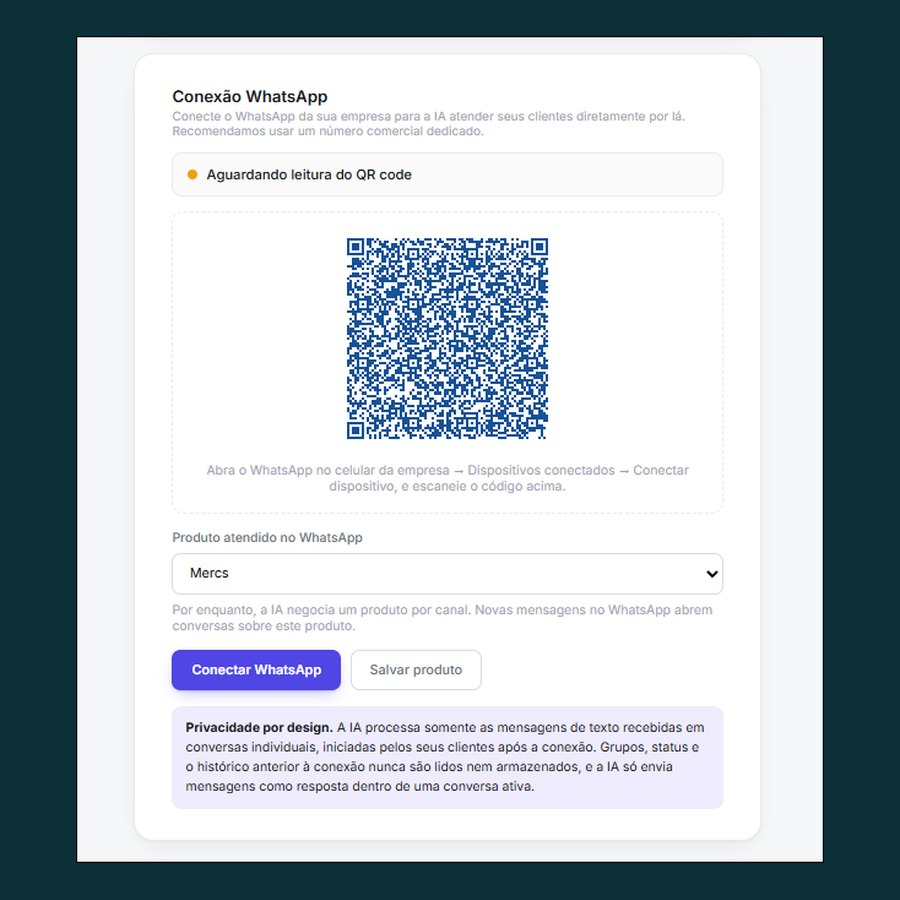
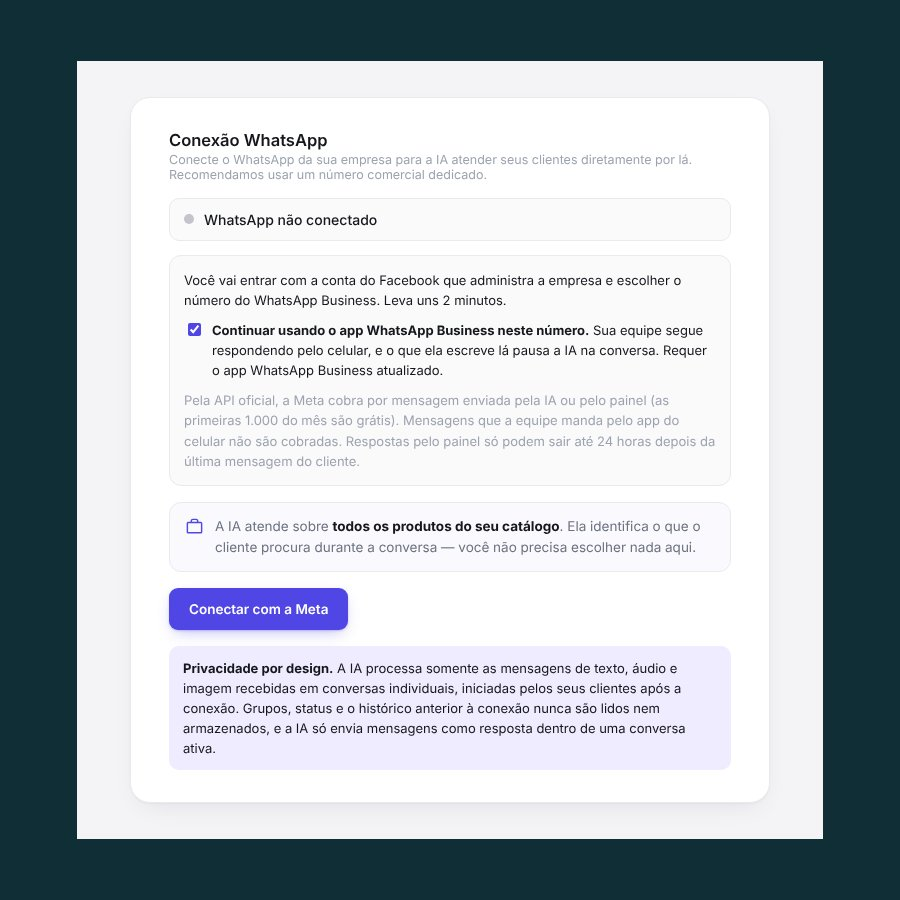
WhatsApp: API oficial como padrão; QR code só para quem já usava, com convite para migrar
- Painel novo: conexão pela API oficial da Meta; QR code aparece só para empresas legado
- Aviso e botão para migrar quem está conectado por QR code
- Painel antigo: empresas novas são levadas para o painel novo
- Termos e site sem oferta de QR code; nova imagem do passo de conexão

Claude-Session: https://claude.ai/code/session_01BChpN4bGcx6q83eQh1dqe1

Changed region(s): [[0.0622, 0.0311, 0.9333, 0.9022], [0.0622, 0.9333, 0.9333, 0.9644], [0.7778, 0.6222, 0.8089, 0.6533]]

diff --git a/acesso-novo/index.html b/acesso-novo/index.html
@@ -1200,6 +1200,11 @@
 .wa-meta-box.visible{display:block;}
 .wa-meta-box label{display:flex;gap:8px;align-items:flex-start;margin-top:10px;cursor:pointer;}
 .wa-meta-box input[type=checkbox]{margin-top:3px;accent-color:var(--accent);}
+#wa-disconnect-btn,#wa-meta-btn,#wa-connect-btn{align-items:center;}
+.wa-migrar{display:none;margin-top:14px;padding:14px;border:1px solid #F5D9A8;border-radius:12px;background:#FFF8EC;font-size:13px;line-height:1.55;color:var(--text-primary);}
+.wa-migrar.visible{display:block;}
+.wa-migrar b{display:block;margin-bottom:4px;font-size:13.5px;}
+.wa-migrar .btn-primary{margin-top:10px;}
 .wa-provedor-tag{display:inline-block;margin-left:8px;padding:2px 8px;border-radius:999px;background:var(--accent-soft);color:var(--accent-dark,#3730A3);font-size:11.5px;font-weight:600;vertical-align:middle;}
 .bk-opcao{display:flex;gap:8px;align-items:center;margin-top:14px;font-size:13px;color:var(--text-primary);cursor:pointer;}
 .bk-opcao input{accent-color:var(--accent);}
@@ -1787,7 +1792,7 @@
           </div>
           <div class="pp-texto">
             <h2>Agora é só conectar seu WhatsApp e começar a vender!</h2>
-            <p>Clique no botão abaixo, gere o QR code e escaneie com o celular que atende seus clientes. Leva menos de um minuto.</p>
+            <p>Clique no botão abaixo, entre com a conta do Facebook que administra a empresa e escolha o número do WhatsApp Business. Leva uns 2 minutos.</p>
           </div>
           <button class="btn-primary pp-btn" id="pp-conectar-wa">Conectar meu WhatsApp</button>
         </div>
@@ -2888,17 +2893,24 @@
             <span class="wa-status-num" id="wa-status-num"></span>
           </div>
 
-          <!-- v1.31 — dois jeitos de conectar: QR code (como sempre) ou API
-               oficial da Meta, com o app WhatsApp Business continuando a funcionar. -->
-          <div class="wa-modos" id="wa-modos" role="group" aria-label="Como conectar o WhatsApp">
-            <button type="button" class="wa-modo" id="wa-modo-qr" aria-pressed="true">
-              <b>QR code</b>
-              <span>Lê um QR code no celular, como no WhatsApp Web. Mais rápido de configurar.</span>
-            </button>
-            <button type="button" class="wa-modo" id="wa-modo-meta" aria-pressed="false">
-              <b>API oficial da Meta</b>
+          <!-- v1.32 — a conexão é pela API oficial da Meta, com o app WhatsApp
+               Business continuando a funcionar. O QR code (cliente não oficial)
+               só aparece para as empresas que já o usavam, até migrarem. -->
+          <div class="wa-modos" id="wa-modos" role="group" aria-label="Como conectar o WhatsApp" style="display:none;">
+            <button type="button" class="wa-modo" id="wa-modo-meta" aria-pressed="true">
+              <b>API oficial da Meta (recomendado)</b>
               <span>Conexão oficial do WhatsApp. O app WhatsApp Business do celular continua funcionando.</span>
             </button>
+            <button type="button" class="wa-modo" id="wa-modo-qr" aria-pressed="false">
+              <b>QR code (conexão antiga)</b>
+              <span>Disponível só para quem já usava. Não é oficial e pode ser bloqueada pelo WhatsApp.</span>
+            </button>
+          </div>
+
+          <div class="wa-migrar" id="wa-migrar" role="note">
+            <b>Migre para a API oficial do WhatsApp</b>
+            Este número está conectado por QR code, uma conexão não oficial que o WhatsApp pode bloquear a qualquer momento. Pela API oficial você mantém o mesmo número, o app WhatsApp Business continua no celular e as conversas seguem no painel.
+            <div><button type="button" class="btn-primary" id="wa-migrar-btn">Migrar para a API oficial</button></div>
           </div>
 
           <div class="wa-meta-box" id="wa-meta-box">
@@ -4749,9 +4761,11 @@ let waPollTimer=null;
 let waInfraConfigured=null;
 /* v1.31 — provedor da conexão: 'evolution' (QR code) ou 'meta' (API oficial). */
 let waProvedor='evolution';
-let waModo='qr';
+let waModo='meta';
 let waMeta={disponivel:false};
-let waQrDisponivel=true;
+let waQrDisponivel=false;
+/* Empresa conectada por QR code abrindo o cadastro da Meta para migrar. */
+let waMigrando=false;
 
 function waSetStatusUI(status, numero){
   const dot=document.getElementById('wa-status-dot');
@@ -4773,19 +4787,25 @@ function waSetStatusUI(status, numero){
   const modos=document.getElementById('wa-modos');
   const metaBtn=document.getElementById('wa-meta-btn');
   const metaBox=document.getElementById('wa-meta-box');
-  /* A escolha só aparece quando não há conexão; conectado, mostra por onde está. */
-  if(modos) modos.style.display = conectado || status==='aguardando_qr' ? 'none' : 'grid';
-  const modoMeta = !conectado && waModo==='meta';
+  /* A escolha só existe para quem ainda pode usar QR code (qr_legado) e só
+     aparece sem conexão; para os demais, a conexão é sempre pela API oficial. */
+  if(modos) modos.style.display = conectado || status==='aguardando_qr' || !waQrDisponivel ? 'none' : 'grid';
+  if(conectado && waProvedor==='meta') waMigrando=false;
+  const modoMeta = (!conectado && waModo==='meta') || (conectado && waMigrando);
+  const migrar=document.getElementById('wa-migrar');
+  if(migrar) migrar.classList.toggle('visible', conectado && waProvedor!=='meta' && !waMigrando);
   connBtn.style.display = conectado || modoMeta ? 'none' : 'inline-flex';
   if(metaBtn) metaBtn.style.display = modoMeta ? 'inline-flex' : 'none';
   if(metaBox) metaBox.classList.toggle('visible', modoMeta);
   discBtn.style.display = conectado ? 'inline-flex' : 'none';
   if(status!=='aguardando_qr'){ document.getElementById('wa-qr-box').classList.remove('visible'); }
-  if(waInfraConfigured===false){
+  if(waInfraConfigured===false || (!conectado && waModo==='meta' && !waMeta.disponivel)){
     connBtn.disabled=true;
+    if(metaBtn) metaBtn.disabled=true;
     txt.textContent='Em preparação — a conexão será liberada em breve';
   }else{
     connBtn.disabled=false;
+    if(metaBtn) metaBtn.disabled=false;
   }
   atualizarProximoPasso(status);
 }
@@ -4801,7 +4821,7 @@ function atualizarProximoPasso(status){
 }
 document.getElementById('pp-conectar-wa').addEventListener('click', ()=>{
   switchView('configuracoes');
-  const alvo=document.getElementById('wa-connect-btn');
+  const alvo=document.getElementById(waModo==='meta' ? 'wa-meta-btn' : 'wa-connect-btn');
   if(alvo){
     alvo.scrollIntoView({behavior:'smooth', block:'center'});
     setTimeout(()=>alvo.focus(), 300);
@@ -4814,7 +4834,7 @@ async function waFetchStatus(){
   waInfraConfigured=data.configured;
   waProvedor=data.provedor||data.instancia?.provedor||'evolution';
   waMeta=data.meta||{disponivel:false};
-  waQrDisponivel=data.qr_disponivel!==false;
+  waQrDisponivel=data.qr_disponivel===true;
   waAtualizarModos();
   waSetStatusUI(data.instancia?.status, data.instancia?.numero_conectado);
   return data;
@@ -4842,9 +4862,8 @@ function waAtualizarModos(){
   bMeta.querySelector('span').textContent = waMeta.disponivel
     ? 'Conexão oficial do WhatsApp. O app WhatsApp Business do celular continua funcionando.'
     : 'Em breve: a conexão oficial do WhatsApp ainda está sendo liberada.';
-  bQr.disabled=!waQrDisponivel;
-  if(waModo==='meta' && !waMeta.disponivel) waModo='qr';
-  if(waModo==='qr' && !waQrDisponivel && waMeta.disponivel) waModo='meta';
+  bQr.style.display = waQrDisponivel ? '' : 'none';
+  if(!waQrDisponivel) waModo='meta';
   bQr.setAttribute('aria-pressed', waModo==='qr' ? 'true':'false');
   bMeta.setAttribute('aria-pressed', waModo==='meta' ? 'true':'false');
 }
@@ -4856,6 +4875,12 @@ function waEscolherModo(m){
 }
 document.getElementById('wa-modo-qr').addEventListener('click', ()=>waEscolherModo('qr'));
 document.getElementById('wa-modo-meta').addEventListener('click', ()=>waEscolherModo('meta'));
+document.getElementById('wa-migrar-btn').addEventListener('click', ()=>{
+  waMigrando=true;
+  waSetStatusUI('conectado', document.getElementById('wa-status-num').textContent.replace(/\D/g,'')||null);
+  const alvo=document.getElementById('wa-meta-btn');
+  if(alvo) alvo.scrollIntoView({behavior:'smooth', block:'center'});
+});
 
 /* Cadastro incorporado da Meta (Embedded Signup). O SDK do Facebook só é
    carregado quando a pessoa escolhe a API oficial. A Meta devolve um código

diff --git a/acesso/index.html b/acesso/index.html
@@ -1595,7 +1595,7 @@
           </div>
           <div class="pp-texto">
             <h2>Agora é só conectar seu WhatsApp e começar a vender!</h2>
-            <p>Clique no botão abaixo, gere o QR code e escaneie com o celular que atende seus clientes. Leva menos de um minuto.</p>
+            <p>Clique no botão abaixo e conecte o número da sua empresa pela API oficial do WhatsApp. Leva uns 2 minutos.</p>
           </div>
           <button class="btn-primary pp-btn" id="pp-conectar-wa">Conectar meu WhatsApp</button>
         </div>
@@ -2424,6 +2424,9 @@
             <button class="btn-primary" id="wa-connect-btn">Conectar WhatsApp</button>
             <button class="btn-secondary" id="wa-disconnect-btn" style="display:none;">Desconectar</button>
           </div>
+          <!-- Conexão por QR code só para quem já a usava; as novas são pela API
+               oficial da Meta, disponível no painel novo. -->
+          <p class="hint" id="wa-so-oficial" style="display:none;margin:12px 0 0;">A conexão do WhatsApp agora é feita pela API oficial da Meta. Conecte em <a href="https://www.mercs.com.br/acesso-novo/">mercs.com.br/acesso-novo</a> → Configurações → Conexão WhatsApp.</p>
 
           <div class="wa-privacy">
             <strong>Privacidade por design.</strong> A IA processa somente as mensagens de texto recebidas em conversas individuais, iniciadas pelos seus clientes após a conexão. Grupos, status e o histórico anterior à conexão nunca são lidos nem armazenados, e a IA só envia mensagens como resposta dentro de uma conversa ativa.
@@ -3997,7 +4000,10 @@ function waSetStatusUI(status, numero){
   const labels={conectado:'WhatsApp conectado', aguardando_qr:'Aguardando leitura do QR code', desconectado:'WhatsApp não conectado'};
   txt.textContent=labels[status]||labels.desconectado;
   num.textContent=numero ? '+'+numero : '';
-  connBtn.style.display = status==='conectado' ? 'none' : 'inline-flex';
+  const semQr = !waQrPermitido && status!=='conectado' && status!=='aguardando_qr';
+  connBtn.style.display = status==='conectado' || semQr ? 'none' : 'inline-flex';
+  const soOficial=document.getElementById('wa-so-oficial');
+  if(soOficial) soOficial.style.display = semQr ? 'block' : 'none';
   discBtn.style.display = status==='conectado' ? 'inline-flex' : 'none';
   if(status!=='aguardando_qr'){ document.getElementById('wa-qr-box').classList.remove('visible'); }
   if(waInfraConfigured===false){
@@ -4019,6 +4025,7 @@ function atualizarProximoPasso(status){
   card.style.display = mostrar ? 'flex' : 'none';
 }
 document.getElementById('pp-conectar-wa').addEventListener('click', ()=>{
+  if(!waQrPermitido){ window.location.href='https://www.mercs.com.br/acesso-novo/'; return; }
   switchView('configuracoes');
   const alvo=document.getElementById('wa-connect-btn');
   if(alvo){
@@ -4027,10 +4034,12 @@ document.getElementById('pp-conectar-wa').addEventListener('click', ()=>{
   }
 });
 
+let waQrPermitido=true;
 async function waFetchStatus(){
   const {data, error}=await sb.functions.invoke('whatsapp-admin', {body:{action:'status', company_id:empresaAlvo()}});
   if(error || !data){ return null; }
   waInfraConfigured=data.configured;
+  waQrPermitido=data.qr_disponivel===true;
   waSetStatusUI(data.instancia?.status, data.instancia?.numero_conectado);
   return data;
 }

diff --git a/termos/index.html b/termos/index.html
@@ -22,7 +22,7 @@
 </div></header>
 <main>
 <h1>Termos de Uso</h1>
-<p class="atualizado">Última atualização: 21 de novembro de 2026</p>
+<p class="atualizado">Última atualização: 22 de novembro de 2026</p>
 
 <p>Estes termos regem o uso da plataforma Mercs, oferecida por NUNO AKIRA MACHADO SUGANO, CNPJ 65.199.877/0001-07 (“Mercs”), pelas empresas que contratam o serviço (“Cliente”) e pelas pessoas que usam o painel em nome delas.</p>
 
@@ -31,7 +31,7 @@
 
 <h2>2. Conexão com o WhatsApp</h2>
 <ul>
-  <li>O Cliente pode conectar seu número pela API oficial da Meta (WhatsApp Business Platform) ou por QR code. Na API oficial, o Cliente autoriza a Mercs, como Provedora de Tecnologia, a enviar e receber mensagens e gerenciar sua conta do WhatsApp Business em seu nome.</li>
+  <li>O número do Cliente é conectado pela API oficial da Meta (WhatsApp Business Platform), inclusive em coexistência com o aplicativo WhatsApp Business. Ao conectar, o Cliente autoriza a Mercs, como Provedora de Tecnologia, a enviar e receber mensagens e gerenciar sua conta do WhatsApp Business em seu nome.</li>
   <li>O Cliente deve cumprir os <a href="https://www.whatsapp.com/legal/business-policy/" target="_blank" rel="noopener">Termos e Políticas do WhatsApp Business</a> e as políticas de comércio da Meta, inclusive obtendo o consentimento das pessoas quando exigido.</li>
   <li>As cobranças da Meta pelas mensagens enviadas pela API oficial são feitas diretamente na conta do WhatsApp Business do Cliente.</li>
 </ul>

diff --git a/index.html b/index.html
@@ -938,10 +938,10 @@
           <div class="tl-body">
             <span class="step-n">2</span>
             <h3>Conecte seu WhatsApp</h3>
-            <p>Vincule o número da sua empresa. A partir daí, toda mensagem recebida é respondida pelo Mercs — o cliente sempre dá o primeiro passo.</p>
+            <p>Vincule o número da sua empresa pela API oficial do WhatsApp, mantendo o app WhatsApp Business no celular. A partir daí, toda mensagem recebida é respondida pelo Mercs — o cliente sempre dá o primeiro passo.</p>
           </div>
           <div class="tl-shot">
-            <img src="assets/passo-whatsapp.jpg" alt="Tela de conexão do WhatsApp com QR code no painel da Mercs" loading="lazy" width="900" height="900">
+            <img src="assets/passo-whatsapp.jpg?v=2" alt="Tela de conexão do WhatsApp no painel da Mercs" loading="lazy" width="900" height="900">
           </div>
         </div>
         <div class="tl-card">
